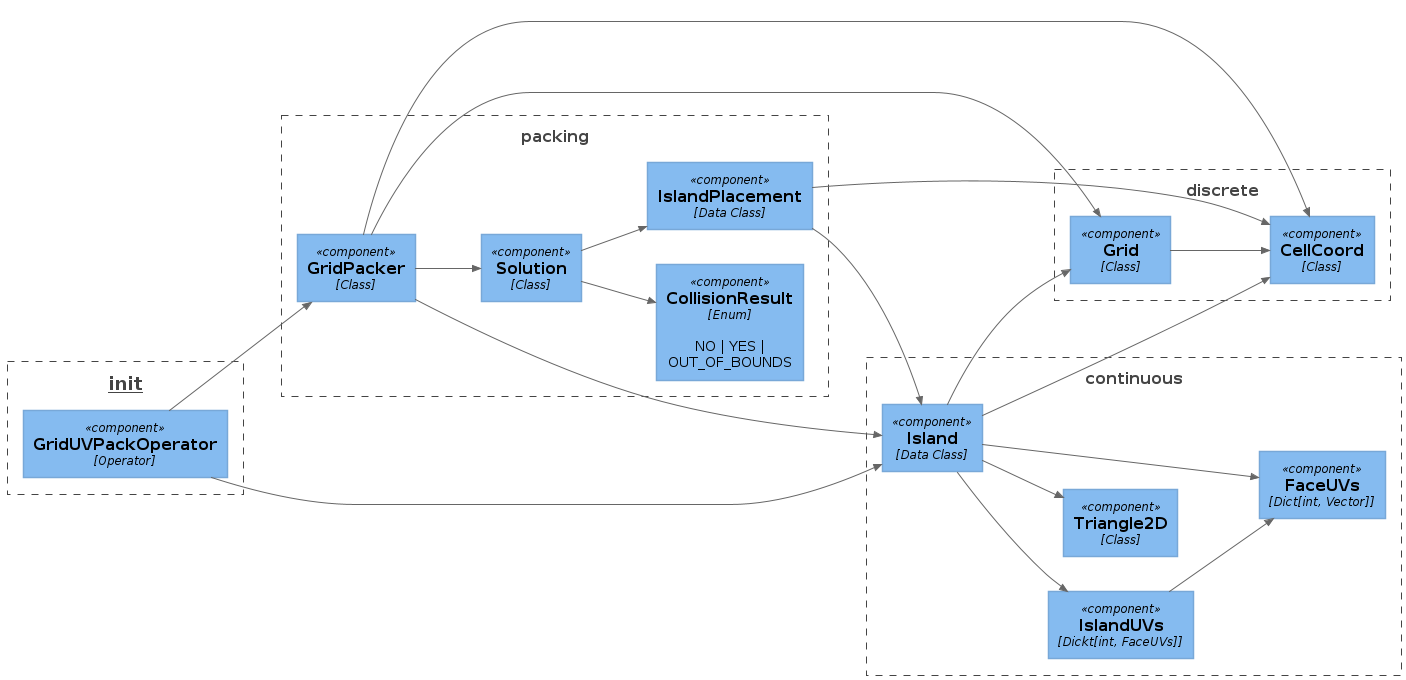
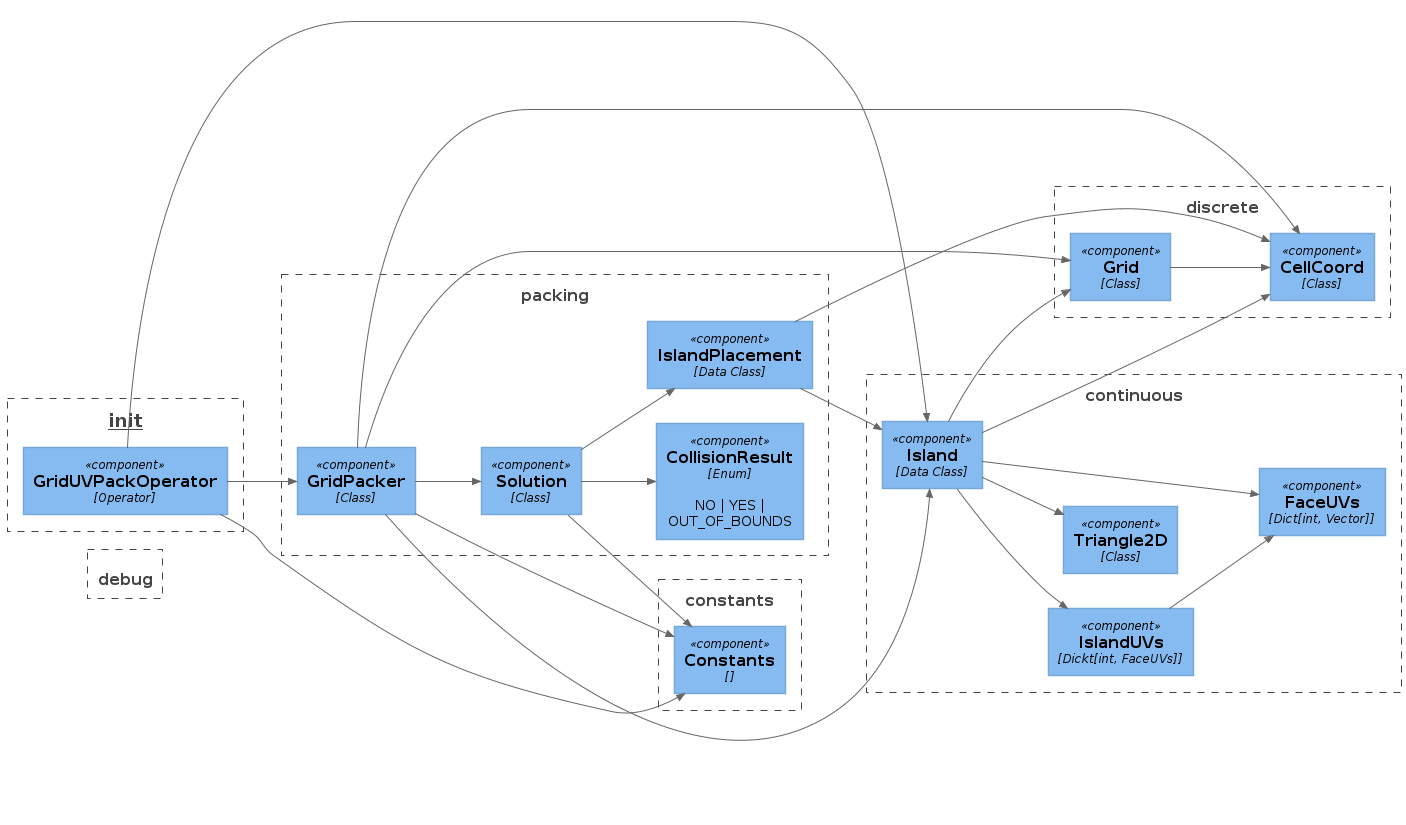
PEP8 compatibility.

diff --git a/guvp/packing.py b/guvp/packing.py
@@ -20,7 +20,7 @@
 from __future__ import annotations
 from collections import deque
 from concurrent import futures
-from dataclasses import (dataclass, field, InitVar)
+from dataclasses import dataclass
 import enum
 import itertools
 import math
@@ -31,22 +31,13 @@ from typing import (List, Tuple, Optional)
 import bmesh                  # type: ignore
 import numpy as np            # type: ignore
 
-from guvp import (continuous, debug, discrete)
+from guvp import (constants, continuous, debug, discrete)
 
 
 CollisionResult = enum.Enum('CollisionResult', 'NO YES OUT_OF_BOUNDS')
 
 
 class Solution:
-    GROW_AREA_CHANCE = 0.5           # Grow chance if utilized area is too big.
-    GROW_AREA_RATIO = 0.85           # Grow if utilized area is larger than this.
-    GROW_BASE_CHANCE = 0.15          # Base grow chance without modifiers
-    GROW_REGULARITY_CHANCE = -0.25   # Grow change if the utilized area is closer to a rectangle.
-    GROW_REGULARITY_RATIO = 0.667    # What is the threshold to consider a rectangle-like fill.
-    MAX_GROW_COUNT = 2
-    MAX_PLACEMENT_RETRIES = 100_000  # Hard limit for tries
-    SEARCH_START_RESET_CHANCE = 0.333
-
     """Store a set of placements."""
     def __init__(
             self,
@@ -77,13 +68,14 @@ class Solution:
         islands_remaining = deque(islands_to_place)
         del islands_to_place
         self._rng.shuffle(islands_remaining)
-        # We need to reset search cell here since pack may be called several times.
+        # We need to reset search cell here since
+        # pack may be called several times.
         self._search_start = discrete.CellCoord.zero()
         island_retries_left: int = len(islands_remaining)
         while len(islands_remaining) > 0 and island_retries_left > 0:
             # self._mask.draw_str()
             island_retries_left -= 1
-            placement_retries_left: int = self.MAX_PLACEMENT_RETRIES
+            placement_retries_left: int = constants.MAX_PLACEMENT_RETRIES
             island: continuous.Island = islands_remaining.popleft()
             search_cell: discrete.CellCoord = self._search_start
             island_placement: Optional[IslandPlacement] = None
@@ -119,7 +111,7 @@ class Solution:
                 self.islands.append(island_placement)
                 self._write_island_to_mask(island_placement)
                 self._update_utilized_area(island_placement)
-            if self._rng.random() <= self.SEARCH_START_RESET_CHANCE:
+            if self._rng.random() <= constants.SEARCH_START_RESET_CHANCE:
                 self._search_start = discrete.CellCoord.zero()
         # Run is successful if all the islands are placed.
         return len(islands_remaining) == 0
@@ -154,20 +146,20 @@ class Solution:
         return new_search_cell
 
     def _calculate_grow_chance(self) -> float:
-        grow_chance: float = self.GROW_BASE_CHANCE
+        grow_chance: float = constants.GROW_BASE_CHANCE
         utilized_x: float = float(self._utilized_area[0])
         utilized_y: float = float(self._utilized_area[1])
         # Grow if utilized area gets too large compared to current mask size.
-        if utilized_x / self._mask.width > self.GROW_AREA_RATIO or \
-           utilized_y / self._mask.height > self.GROW_AREA_RATIO:
-            grow_chance += self.GROW_AREA_CHANCE
+        if utilized_x / self._mask.width > constants.GROW_AREA_RATIO or \
+           utilized_y / self._mask.height > constants.GROW_AREA_RATIO:
+            grow_chance += constants.GROW_AREA_CHANCE
         # Grow only if utilized area is rectangular.
         ratio: float = utilized_x / utilized_y \
             if utilized_x != 0.0 and utilized_y != 0.0 else 1.0
         if ratio > 1.0:
             ratio = 1.0 / ratio
-        if ratio <= self.GROW_REGULARITY_RATIO:
-            grow_chance += self.GROW_REGULARITY_CHANCE
+        if ratio <= constants.GROW_REGULARITY_RATIO:
+            grow_chance += constants.GROW_REGULARITY_CHANCE
         del ratio
         return max(0.0, min(grow_chance, 1.0))
 
@@ -190,7 +182,8 @@ class Solution:
 
     def _grow(self) -> None:
         # Limit growing.
-        if self._mask.width >= self._initial_size * (2 ** self.MAX_GROW_COUNT):
+        max_size: int = self._initial_size * (2 ** constants.MAX_GROW_COUNT)
+        if self._mask.width >= max_size:
             if debug.is_debug():
                 print("Cannot grow more.")
             return None
@@ -219,9 +212,6 @@ class Solution:
 
 
 class GridPacker:
-    SEED_MAX = 2 ** 31 - 1
-    OFFERS_MULTIPLIER = 5.0
-
     def __init__(
             self,
             initial_size: int,
@@ -249,7 +239,7 @@ class GridPacker:
         results = executor.map(
             self._run_solution,
             itertools.repeat(self._initial_size),
-            [self._rng.randint(0, self.SEED_MAX) for _ in range(n)],
+            [self._rng.randint(0, constants.SEED_MAX) for _ in range(n)],
             itertools.repeat(large_islands),
             itertools.repeat(small_islands)
         )
@@ -267,15 +257,22 @@ class GridPacker:
             scaling_factor = self._winner.scaling_factor
             ip.write_uvs(bm, scaling_factor)
 
-    def _categorize_islands(self) -> Tuple[List[continuous.Island], List[continuous.Island]]:
+    def _categorize_islands(self) -> Tuple[List[continuous.Island],
+                                           List[continuous.Island]]:
         island_sizes: List[int] = sorted([len(i.mask) for i in self._islands])
         median_size: int = statistics.median_low(island_sizes)
         large_islands = [i for i in self._islands if len(i.mask) > median_size]
-        small_islands = [i for i in self._islands if len(i.mask) <= median_size]
+        small_islands = [
+            i for i in self._islands if len(i.mask) <= median_size
+        ]
         return (large_islands, small_islands)
 
     @staticmethod
-    def _run_solution(initial_size: int, seed: int, *grouped_islands: List[continuous.Island]) -> Tuple[bool, Solution]:
+    def _run_solution(
+            initial_size: int,
+            seed: int,
+            *grouped_islands: List[continuous.Island]
+    ) -> Tuple[bool, Solution]:
         solution: Solution = Solution(initial_size, seed)
         return solution.pack_grouped(*grouped_islands), solution
 

diff --git a/guvp/__init__.py b/guvp/__init__.py
@@ -21,7 +21,14 @@ from __future__ import annotations
 
 if "bpy" in locals():
     import importlib
-    for mod in [continuous, debug, discrete, packing, props]:  # noqa: F821
+    for mod in [                  # noqa: F821
+            constants,            # noqa: F821
+            continuous,           # noqa: F821
+            debug,                # noqa: F821
+            discrete,             # noqa: F821
+            packing,              # noqa: F821
+            props                 # noqa: F821
+    ]:
         print("reloading {0}".format(mod))
         importlib.reload(mod)
 else:
@@ -37,7 +44,8 @@ else:
     from mathutils import Vector  # type: ignore
     import numpy as np            # type: ignore
     # addon
-    from guvp import (  # noqa: F401
+    from guvp import (            # noqa: F401
+        constants,
         continuous,
         debug,
         discrete,
@@ -107,7 +115,8 @@ class GridUVPackOperator(bpy.types.Operator):
         with self._mesh_context(context) as (mesh, bm):
             # Calculate fitness of the input UVs.
             island_face_ids: List[set[int]] = self._island_face_ids(mesh)
-            baseline_fitness: Optional[float] = self._calculate_baseline_fitness(
+            baseline_fitness: Optional[float]
+            baseline_fitness = self._calculate_baseline_fitness(
                 bm,
                 grid_size,
                 reduce(lambda a, b: set(a) | b, island_face_ids, set())
@@ -117,7 +126,9 @@ class GridUVPackOperator(bpy.types.Operator):
                     {'ERROR'}, "Island out of bounds in active UV map."
                 )
                 return {'CANCELLED'}
-            random_seed: int = self.seed if self.seed != 0 else random.randint(0, 2 ** 31 - 1)
+            # Use a random seed if seed prop is set to zero.
+            random_seed: int = self.seed if self.seed != 0 \
+                else random.randint(0, constants.SEED_MAX)
             if debug.is_debug():
                 print("Seed being used is: {}".format(random_seed))
             packer = packing.GridPacker(
@@ -137,10 +148,14 @@ class GridUVPackOperator(bpy.types.Operator):
             if debug.is_debug():
                 assert baseline_fitness is not None
                 print(
-                    "Baseline fitness is {0:0.2f}%".format(baseline_fitness * 100)
+                    "Baseline fitness is {0:0.2f}%".format(
+                        baseline_fitness * 100
+                    )
                 )
                 print(
-                    "Grid packer fitness is {0:0.2f}%".format(packer.fitness * 100)
+                    "Grid packer fitness is {0:0.2f}%".format(
+                        packer.fitness * 100
+                    )
                 )
             # TODO: Handle failure better.
             #       Ideally fitness should be better than the current

diff --git a/guvp/constants.py b/guvp/constants.py
@@ -20,3 +20,27 @@
 ADDON_NAME = __package__
 
 DEBUG_MODE_DEFAULT: bool = False
+
+# Grow chance if utilized area is too big.
+GROW_AREA_CHANCE = 0.5
+
+# Grow if utilized area is larger than this.
+GROW_AREA_RATIO = 0.85
+
+# Base grow chance without modifiers
+GROW_BASE_CHANCE = 0.15
+
+# Grow change if the utilized area is closer to a rectangle.
+GROW_REGULARITY_CHANCE = -0.25
+
+# What is the threshold to consider a rectangle-like fill.
+GROW_REGULARITY_RATIO = 0.667
+
+MAX_GROW_COUNT = 2
+
+# Hard limit for tries
+MAX_PLACEMENT_RETRIES = 100_000
+
+SEARCH_START_RESET_CHANCE = 0.333
+
+SEED_MAX = 2 ** 31 - 1

diff --git a/guvp/discrete.py b/guvp/discrete.py
@@ -42,7 +42,7 @@ class CellCoord(NamedTuple):
 
 class Grid:
     def __init__(self, cells: np.ndarray):
-        assert(cells.ndim == 2)
+        assert cells.ndim == 2
         (height, width) = cells.shape
         self.cells = cells
         self.width = width
